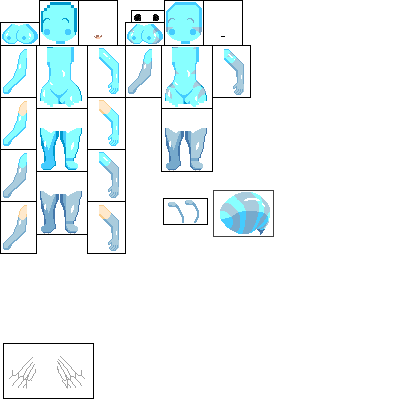
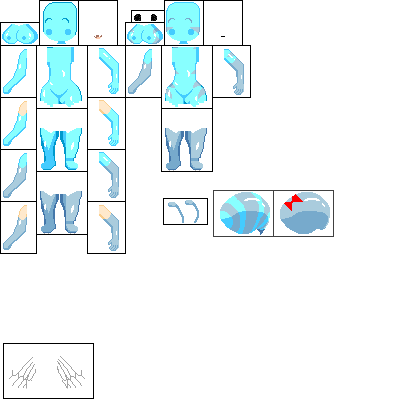
devil, naga ears, spider butt, shark face

diff --git a/devTools/spred/spred.js b/devTools/spred/spred.js
@@ -991,6 +991,18 @@ var spred;
                 'torso/human'
             ]);
             addCompositeView([
+                'ears_bg/human',
+                'eyes/devil',
+                'horns/devil', 'horns_bg/devil',
+                'hair/0', 'hair_bg/0',
+                'head/human', 'face/shark',
+                'breasts/D',
+                'arms/devil', 'arms_bg/devil',
+                'legs/devil',
+                'torso/human',
+                'tail/goat'
+            ]);
+            addCompositeView([
                 'ears_bg/elfin', 'ears/elfin',
                 'eyes/human',
                 'hair/feather', 'hair_bg/feather',
@@ -1042,6 +1054,7 @@ var spred;
                 'head/scales_p', 'face/human_fang',
                 'breasts/Dscales_p',
                 'arms_bg/scales_p', 'arms/scales_p',
+                'ears_bg/Naga', 'ears/Naga',
                 'legs/naga',
                 'torso/scales_p'
             ]);

diff --git a/devTools/spred/spred.ts b/devTools/spred/spred.ts
@@ -1105,6 +1105,18 @@ namespace spred {
 				'torso/human'
 			]);
 			addCompositeView([
+				'ears_bg/human',
+				'eyes/devil',
+				'horns/devil', 'horns_bg/devil',
+				'hair/0', 'hair_bg/0',
+				'head/human', 'face/shark',
+				'breasts/D',
+				'arms/devil', 'arms_bg/devil',
+				'legs/devil',
+				'torso/human',
+				'tail/goat'
+			]);
+			addCompositeView([
 				'ears_bg/elfin', 'ears/elfin',
 				'eyes/human',
 				'hair/feather', 'hair_bg/feather',
@@ -1156,6 +1168,7 @@ namespace spred {
 				'head/scales_p', 'face/human_fang',
 				'breasts/Dscales_p',
 				'arms_bg/scales_p', 'arms/scales_p',
+				'ears_bg/Naga', 'ears/Naga',
 				'legs/naga',
 				'torso/scales_p'
 			]);
